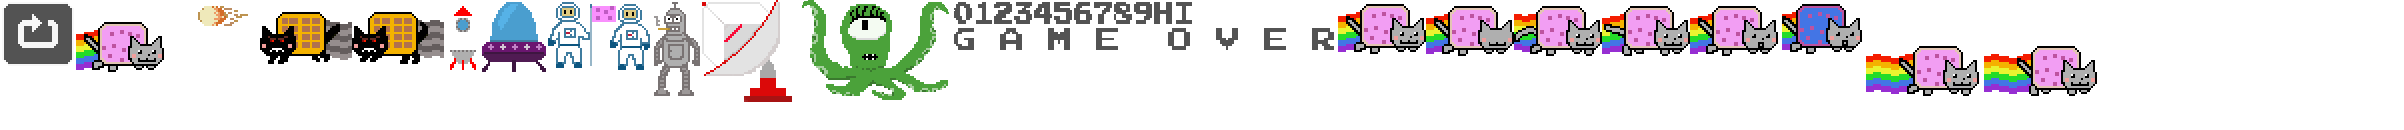
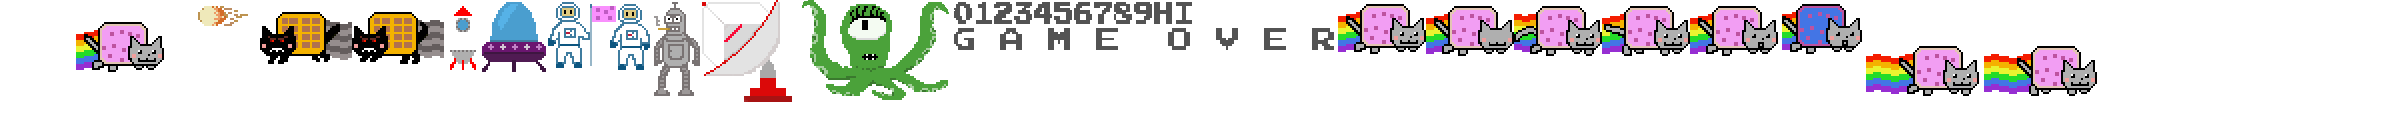
remove btn

Changed region(s): [[0.0, 0.0308, 0.0312, 0.4923]]

diff --git a/public/client.js b/public/client.js
@@ -133,7 +133,7 @@ function copyToClipboard(textToCopy) {
         let textArea = document.createElement("textarea");
         textArea.value = textToCopy;
         // make the textarea out of viewport
-        textArea.style.position = "fixed";
+        textArea.style.position = "fixed";		
         textArea.style.left = "-999999px";
         textArea.style.top = "-999999px";
         document.body.appendChild(textArea);
@@ -268,8 +268,8 @@ function startgame(payload) {
 		document.querySelector(".main").style.display = "block";
 		document.querySelector(".figure").style.display = "block";
 		document.querySelector("#room_info").style.display = "none";
-	
-		document.getElementById("score").remove();
+
+		document.getElementById("back").remove();
 	
 		dinosour.stop();
 	});
